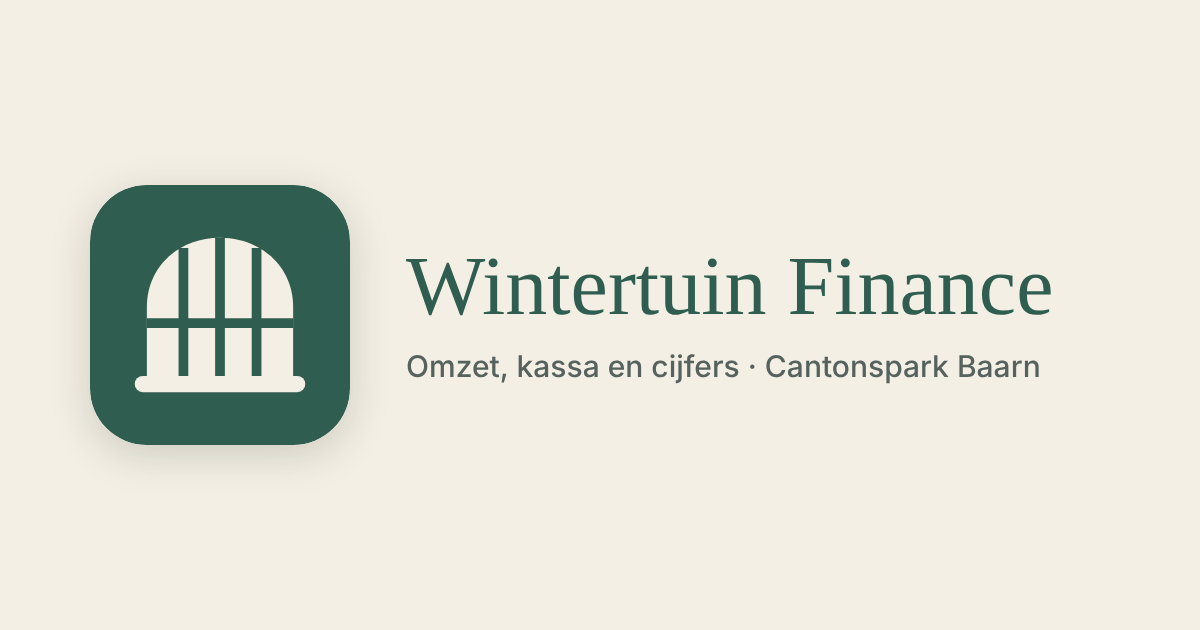
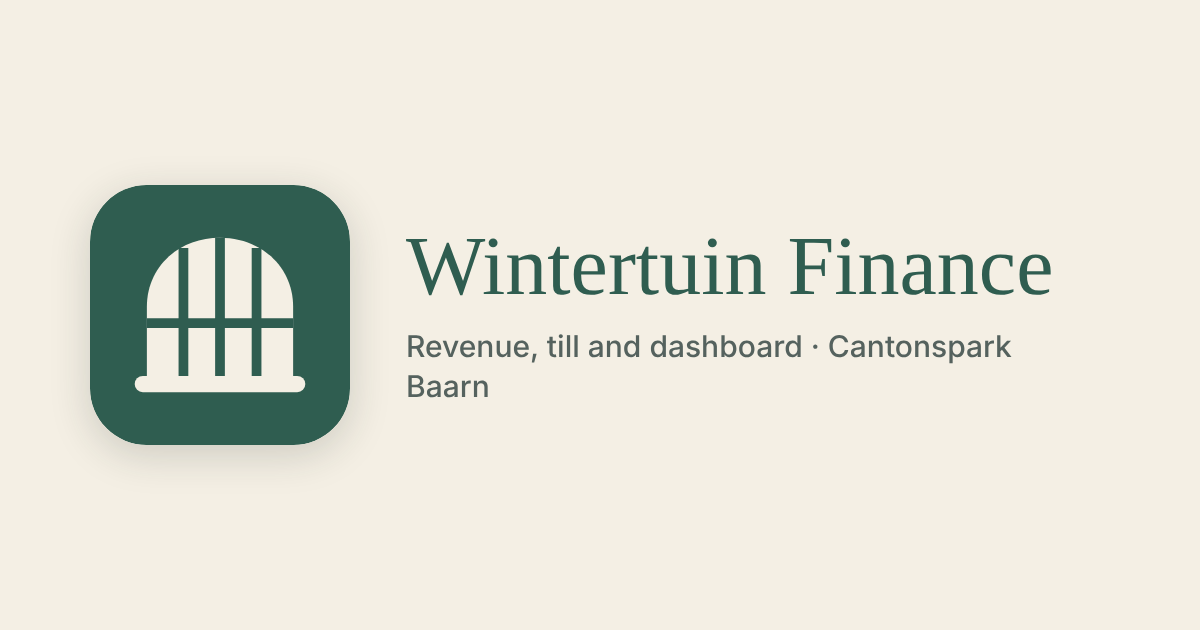
Link preview in English
Claude-Session: https://claude.ai/code/session_01D7jxXBmyUdyZTLV2ctBv7E

Changed region(s): [[0.3392, 0.3619, 0.8942, 0.6333]]

diff --git a/web/index.html b/web/index.html
@@ -5,12 +5,12 @@
   <meta name="viewport" content="width=device-width, initial-scale=1, viewport-fit=cover">
   <meta name="theme-color" content="#2F5D50">
   <title>Wintertuin Finance</title>
-  <meta name="description" content="De cijfers van de Wintertuin in Baarn: omzet, kassa en dashboard.">
+  <meta name="description" content="Wintertuin Finance, Baarn: revenue, till and dashboard. Same login as the Team app.">
   <!-- link preview in WhatsApp, iMessage, Slack: title, text and picture -->
   <meta property="og:type" content="website">
   <meta property="og:site_name" content="Wintertuin">
   <meta property="og:title" content="Wintertuin Finance">
-  <meta property="og:description" content="De cijfers van de Wintertuin in Baarn: omzet, kassa en dashboard.">
+  <meta property="og:description" content="Wintertuin Finance, Baarn: revenue, till and dashboard. Same login as the Team app.">
   <meta property="og:url" content="https://joost1305.github.io/wintertuin-finance/">
   <meta property="og:image" content="https://joost1305.github.io/wintertuin-finance/img/og-image.png">
   <meta property="og:image:width" content="1200">
